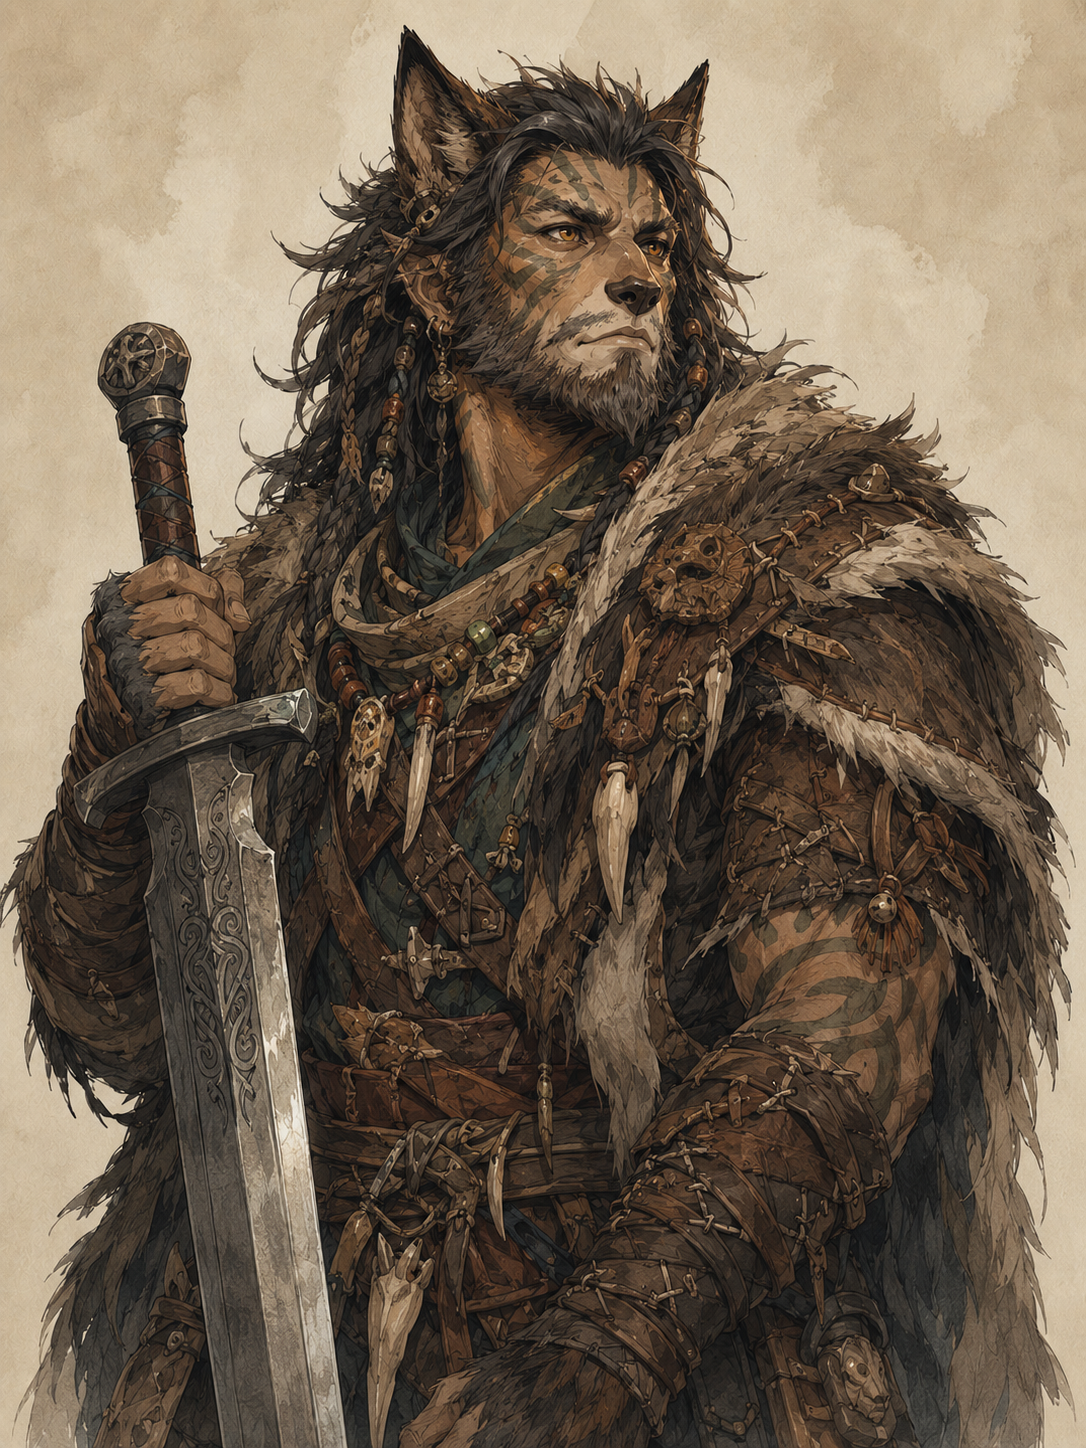
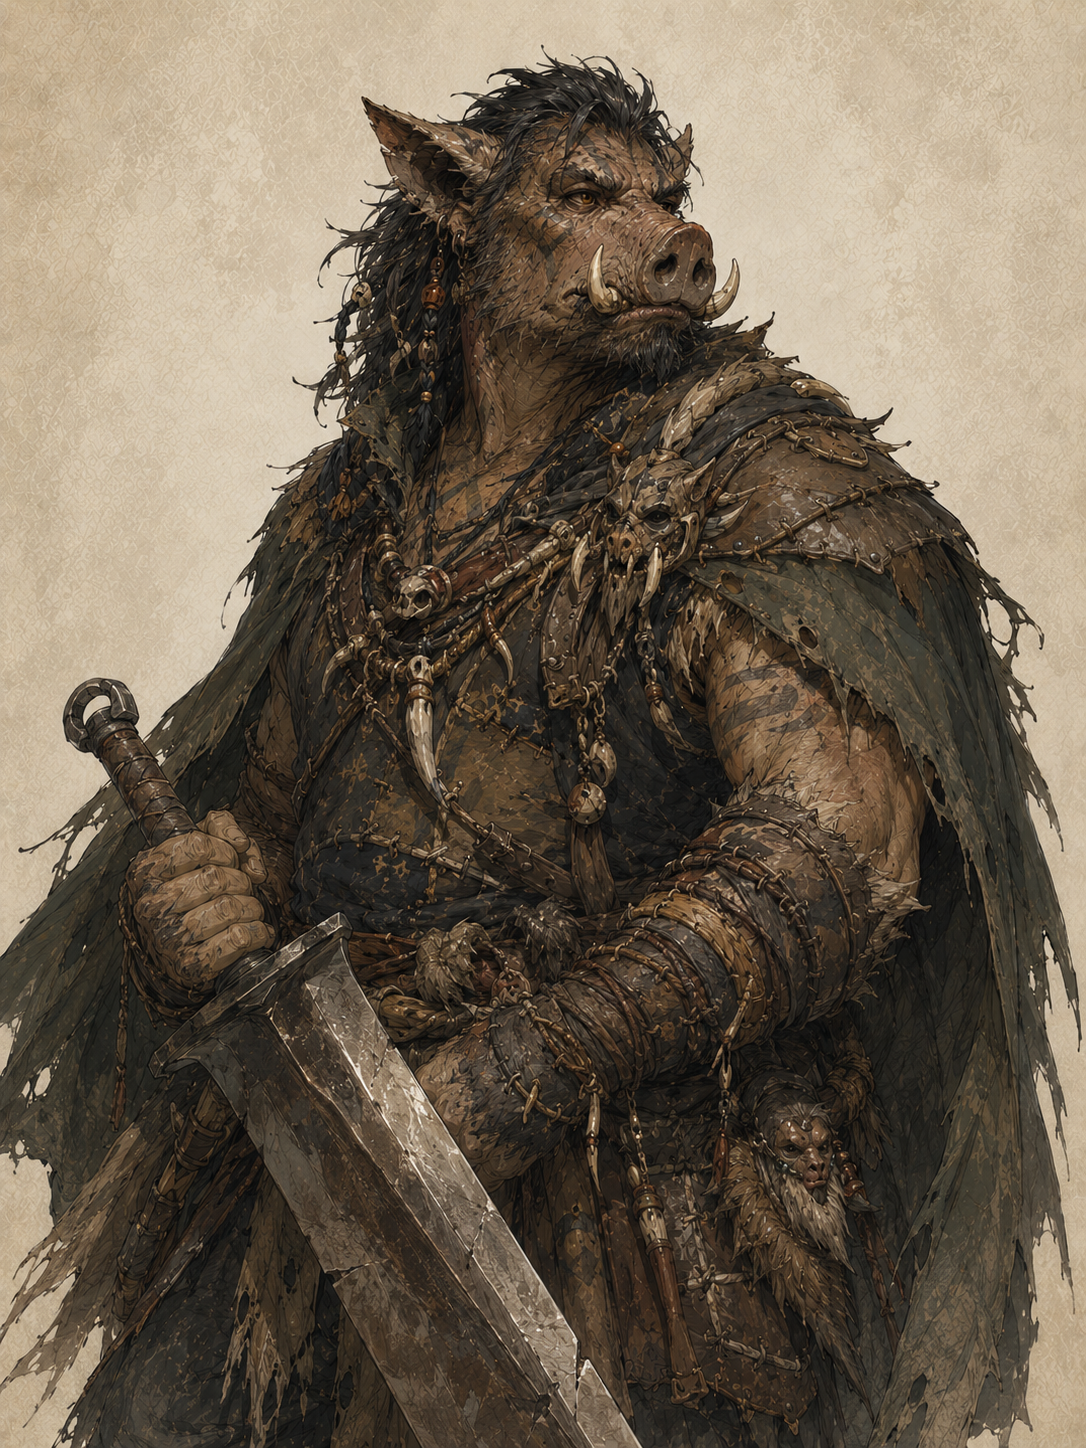
Polish: card gaps, PDF preview fix, button overlap
- Fix Learn More button overlapping mechanic tags on race cards
- Fix PDF preview not loading on first click (keep PDFViewer always mounted)
- Remove sticky CTA background/border, replace with dark fade gradient

diff --git a/src/components/steps/Step9Review.jsx b/src/components/steps/Step9Review.jsx
@@ -219,13 +219,11 @@ export default function Step9Review({ step, character, onBack, jumpToStep }) {
         </button>
       </div>
 
-      {showPreview && (
-        <div className="pdf-preview-wrapper" style={{ height: 600 }}>
-          <PDFViewer width="100%" height="100%" showToolbar={false}>
-            <AnimaPDFDocument character={character} />
-          </PDFViewer>
-        </div>
-      )}
+      <div className="pdf-preview-wrapper" style={{ height: 600, display: showPreview ? 'block' : 'none' }}>
+        <PDFViewer width="100%" height="100%" showToolbar={false}>
+          <AnimaPDFDocument character={character} />
+        </PDFViewer>
+      </div>
 
       <div className="cta-area" style={{ flexDirection: 'column', gap: 'var(--spacing-sm)', alignItems: 'center' }}>
         <button

diff --git a/src/styles/App.css b/src/styles/App.css
@@ -298,6 +298,7 @@ p {
 
 .race-card__mechanics {
   margin-top: var(--spacing-sm);
+  margin-bottom: var(--spacing-md);
   display: flex;
   flex-wrap: wrap;
   gap: 3px;